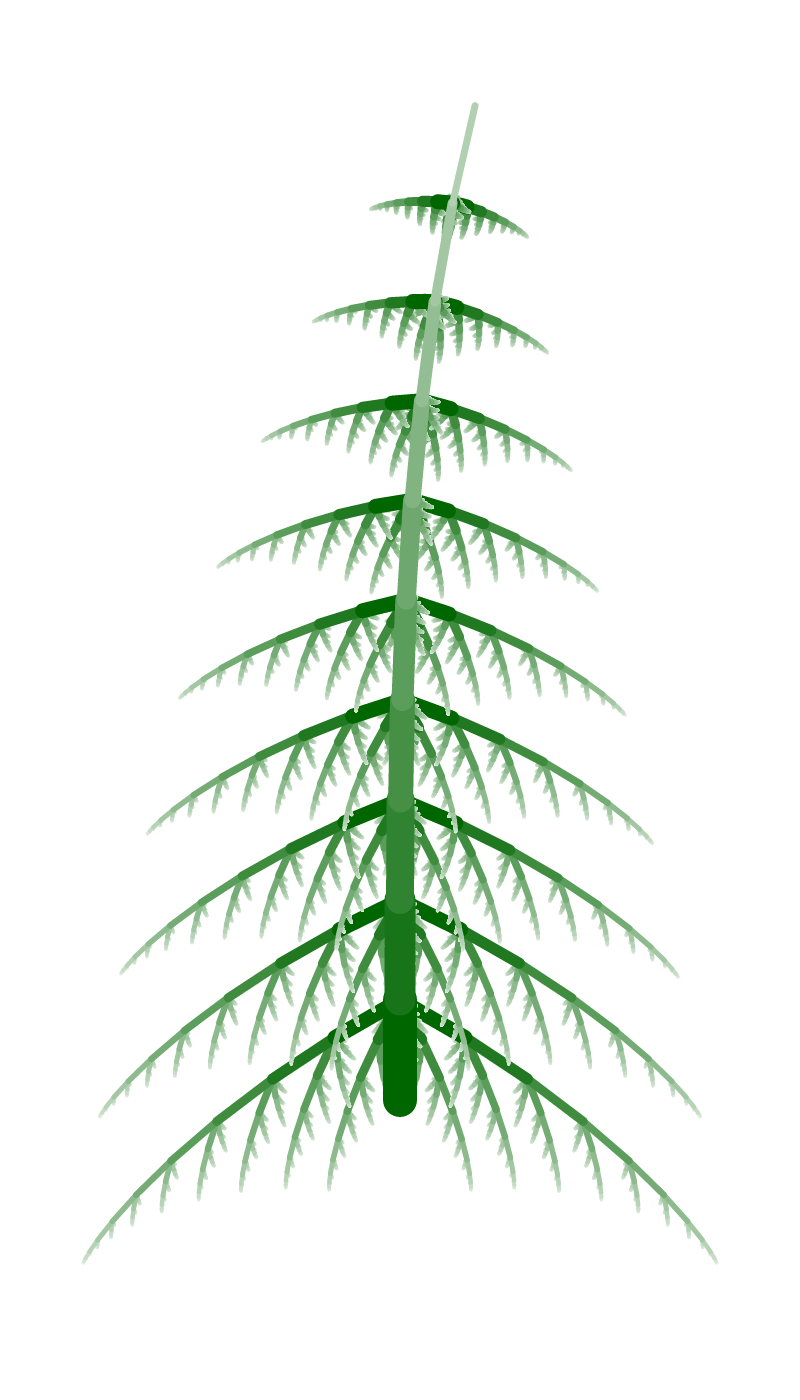
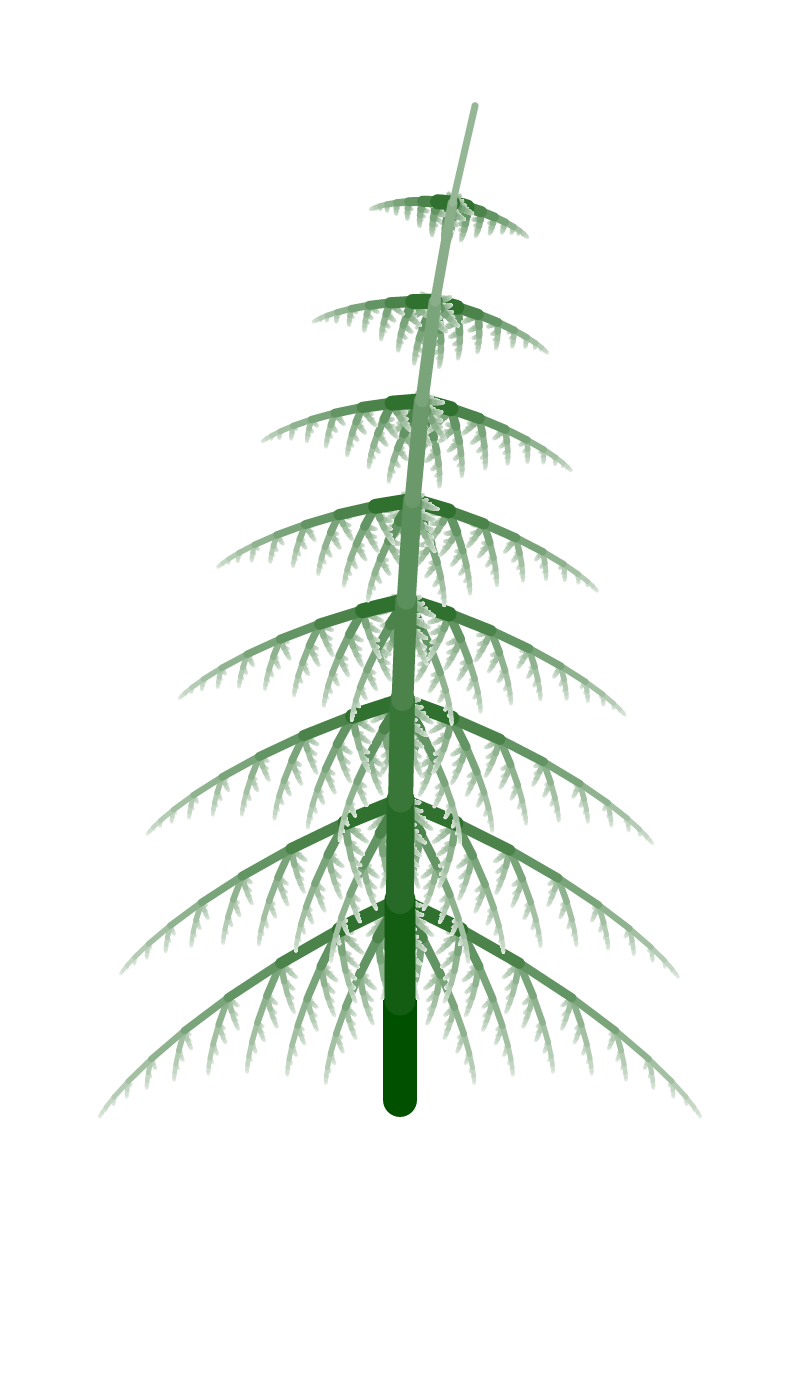
Minor tweaks

diff --git a/src/main.rs b/src/main.rs
@@ -6,7 +6,7 @@ type Vec3 = Vector3<f32>;
 type Rot2 = Rotation2<f32>;
 
 fn paint_path(path: PathBuilder, pixmap: &mut Pixmap, scale: f32, width: f32) {
-    let color = Vec3::new(255.0, 255.0, 255.0).lerp(&Vec3::new(0.0, 102.0, 0.0), scale*scale);
+    let color = Vec3::new(255.0, 255.0, 255.0).lerp(&Vec3::new(0.0, 80.0, 0.0), scale*scale);
     let mut paint = Paint::default();
     paint.set_color_rgba8(color.x as u8, color.y as u8, color.z as u8, 255);
     let stroke = Stroke { width, line_cap: LineCap::Round, ..Stroke::default()};
@@ -19,7 +19,7 @@ fn draw_branch(pm: &mut Pixmap, start: Vec2, dir: Vec2, skew: &Rot2, angle: &Rot
         let new_dir = *skew * dir * scale;
 
         // Grow a sub branch from the current branch
-        let sub_branch_dir = *angle * new_dir * 0.6; // 0.6 is the scale of the sub branch
+        let sub_branch_dir = *angle * new_dir * 0.65; // 0.6 is the scale of the sub branch
         draw_branch(pm, start, sub_branch_dir, skew, angle, n-1);
 
         // Grow the current branch onwards
@@ -28,8 +28,7 @@ fn draw_branch(pm: &mut Pixmap, start: Vec2, dir: Vec2, skew: &Rot2, angle: &Rot
         pb.move_to(start.x, start.y);
         pb.line_to(new_start.x, new_start.y); // stem
         draw_branch(pm, new_start, new_dir, skew, angle, n-1);
-
-        paint_path(pb, pm, scale, 3.0 / (1.0-scale + 0.2));
+        paint_path(pb, pm, scale*0.9, 3.0 / (1.0-scale + 0.2));
     }
 }
 
@@ -49,12 +48,12 @@ fn main() {
         let dir = |sign| Rot2::new(sign * TAU / (4.0 - scale)) * growth * scale;
         let skew = |sign| Rot2::new(sign * TAU / 100.0);
         let angle = |sign| Rot2::new(sign * TAU / (3.0 + scale * 10.0));
-        if scale > 0.15 {  // Do not draw branches to the top of the tree
+        if scale < 0.95 && scale > 0.15 {  // Do not draw branches to the top of the tree
             draw_branch(&mut pm, pos, dir( 1.0) * 1.5, &skew( 1.0), &angle( 1.0), 15);
             draw_branch(&mut pm, pos, dir(-1.0) * 1.5, &skew(-1.0), &angle(-1.0), 15);
         }
         growth = skew(1.0-scale) * growth;
-        paint_path(pb, &mut pm, 0.5 + scale/2.0, 4.0 + scale*30.0);
+        paint_path(pb, &mut pm, 0.6 + scale*0.4, 4.0 + scale*30.0);
     }
     pm.save_png("tree.png").unwrap();
 }
